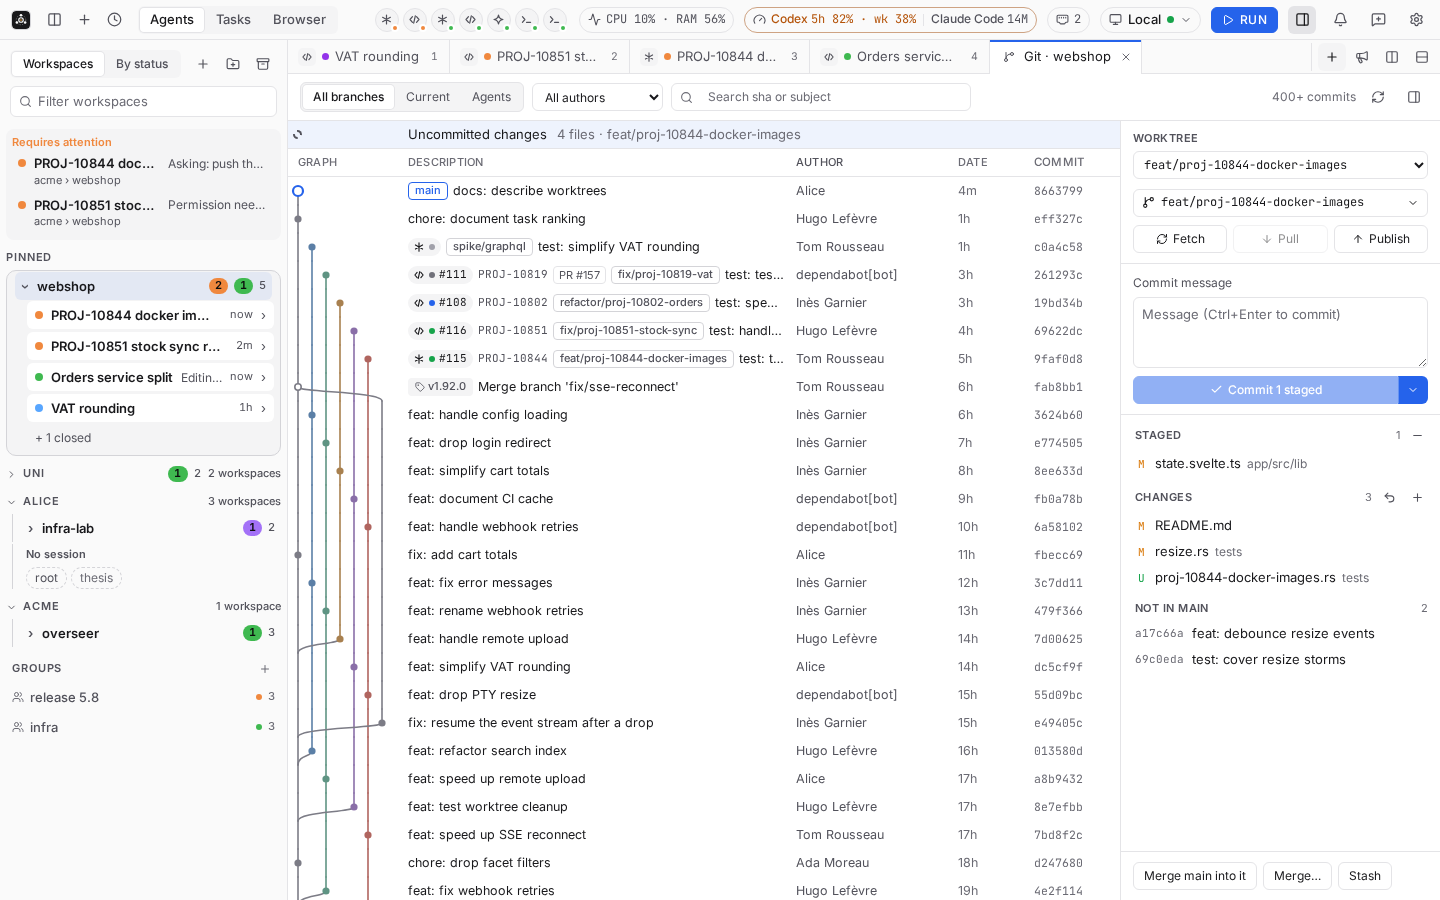
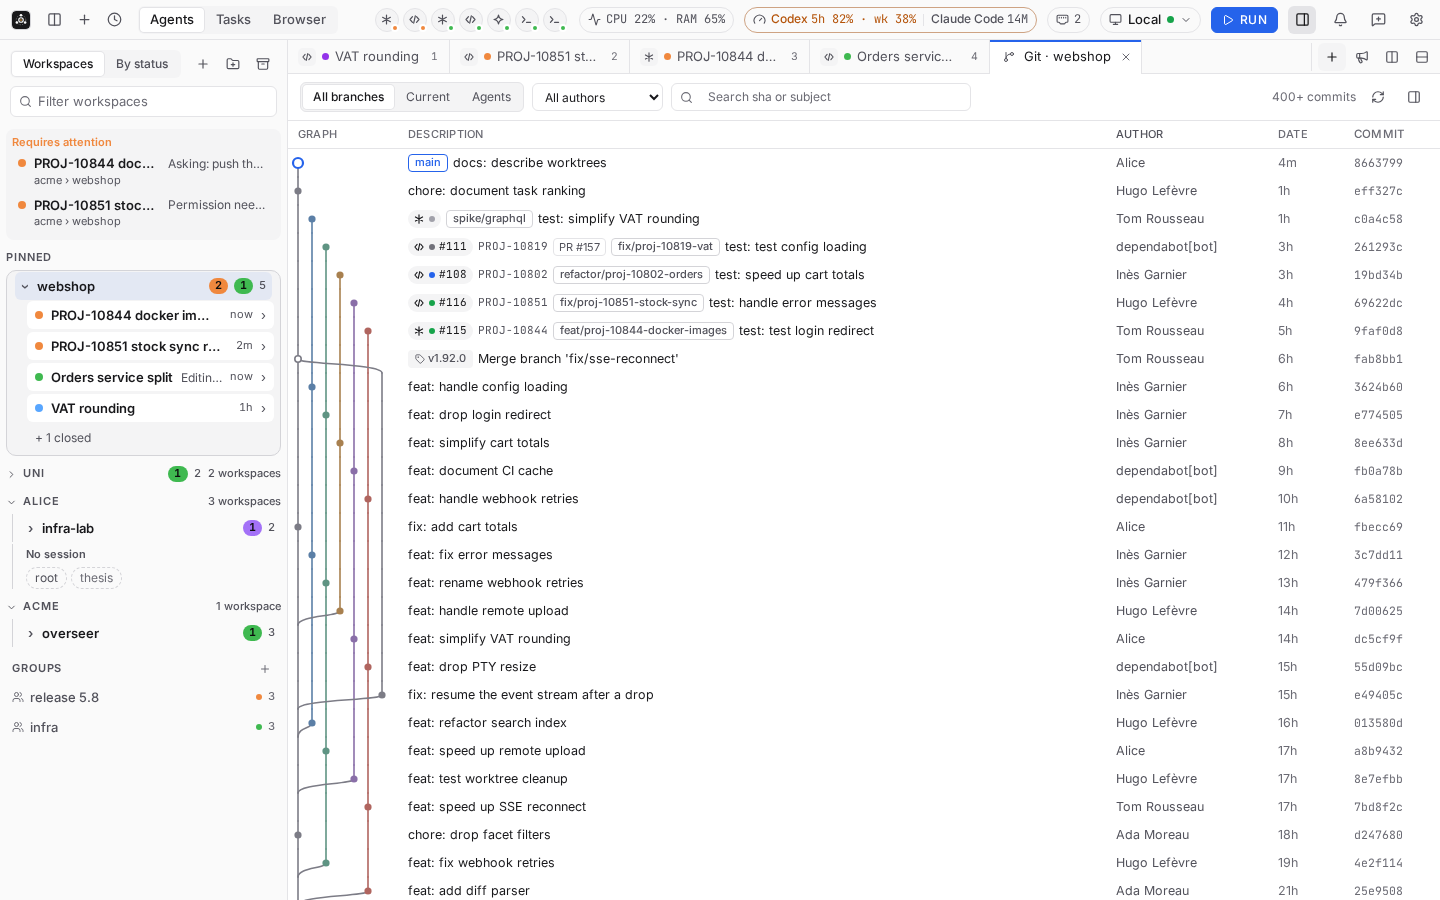
fix(git): one review tab in live mode, docs and screenshots for the live review

diff --git a/app/src/lib/i18n/en.ts b/app/src/lib/i18n/en.ts
@@ -1756,8 +1756,8 @@ export const en = {
   'tour.uninstall.phone': 'More, Settings, Connection, Remove undoes everything Overseer added to this server.',
   'tour.autoUpdate.title': 'One-click updates',
   'tour.autoUpdate.body': 'Every install now updates itself: when a new version is out, the Update pill in the title bar downloads and installs it, then restarts Overseer. Settings, Updates checks on demand.',
-  'tour.sourceControl.title': 'Source control',
-  'tour.sourceControl.body': 'The git button above each session opens its source control beside it: stage files, commit, pull, push, switch branch, merge and stash. Expand it into the Git tab to see the graph next to your changes and merge or revert a commit.',
+  'tour.sourceControl.title': 'Live review',
+  'tour.sourceControl.body': 'The git button above each session opens its live review: the agent on the left, its changes on the right, and one bar at the bottom to commit, push, pull, merge or stash the worktree you pick, submodules included. Press it again to go back.',
   'tour.sourceControl.phone': 'More, Git opens the Git tab: Changes to stage, commit, pull and push, Graph for the history.',
   'tour.settings.title': 'Settings, searchable',
   'tour.settings.body': 'Settings are grouped in a sidebar: General, Terminal, Agents, Notifications, Connection, Updates and Help. Type in the search box to find any setting by name.',

diff --git a/app/src/lib/git/live.svelte.test.ts b/app/src/lib/git/live.svelte.test.ts
@@ -46,6 +46,14 @@ describe('live review', () => {
     expect(allTabs(workspace.layout)).toEqual(['line:ln_03']);
   });
 
+  it('moves an already open review tab beside the agent instead of duplicating it, and leaves no tab behind', () => {
+    workspace.layout = { ...EMPTY_LAYOUT, panes: [{ tabs: ['line:ln_03', 'review:line:ln_03'], active: 'line:ln_03' }] };
+    toggleLiveReview();
+    expect(allTabs(workspace.layout).filter((k) => k === 'review:line:ln_03')).toHaveLength(1);
+    toggleLiveReview();
+    expect(allTabs(workspace.layout)).toEqual(['line:ln_03']);
+  });
+
   it('does nothing for a tab that is not a session', () => {
     expect(toggleLiveReview('graph:/p')).toBe(false);
     expect(app.liveReview).toBe(false);

diff --git a/app/src/lib/git/live.svelte.ts b/app/src/lib/git/live.svelte.ts
@@ -1,7 +1,7 @@
 import { app } from '../state.svelte';
 import { beside } from '../review/beside.svelte';
 import { parseReviewKey } from '../review/keys';
-import { closeSideReview, itemTarget, openReviewBeside } from '../review/open';
+import { closeSideReview, itemTarget, setReviewMode } from '../review/open';
 import type { ScmTarget } from './types';
 
 export const live = $state<{ worktree: string | null }>({ worktree: null });
@@ -35,7 +35,7 @@ export function toggleLiveReview(fromKey: string | null = app.selectedKey): bool
   const target = itemTarget(fromKey);
   if (!target) return false;
   live.worktree = null;
-  openReviewBeside(target);
+  setReviewMode(target, 'side');
   app.liveReview = true;
   return true;
 }

diff --git a/app/src/lib/git/LiveBar.svelte b/app/src/lib/git/LiveBar.svelte
@@ -216,7 +216,7 @@
     <button class="wt" title={s.worktree} aria-haspopup="menu" onclick={worktreeMenu} disabled={busy}>
       <GitBranch size={13} />
       <span class="nm">{name}</span>
-      <span class="br mono">{s.branch ?? gt('sc.detached')}</span>
+      {#if !s.branch || s.branch.replaceAll('/', '-') !== name}<span class="br mono">{s.branch ?? gt('sc.detached')}</span>{/if}
       <ChevronDown size={12} />
     </button>
     <button class="files-btn" class:on={filesOpen} aria-expanded={filesOpen} onclick={() => (filesOpen = !filesOpen)} disabled={!total}>

diff --git a/app/src/lib/git/SourceControl.test.ts b/app/src/lib/git/SourceControl.test.ts
@@ -54,6 +54,10 @@ describe('git bar', () => {
     expect(liveBar).toMatch(/<span class="nm">\{name\}<\/span>/);
   });
 
+  it('shows the branch only when the worktree folder does not already say it', () => {
+    expect(liveBar).toMatch(/\{#if !s\.branch \|\| s\.branch\.replaceAll\('\/', '-'\) !== name\}<span class="br mono">/);
+  });
+
   it('forgets the picked worktree when the session changes', () => {
     expect(liveBar).toMatch(/if \(k === lastKey\) return;\s*lastKey = k;\s*untrack\(\(\) => \{\s*live\.worktree = null;/);
   });

diff --git a/src/gitops.rs b/src/gitops.rs
@@ -501,12 +501,11 @@ fn unpushed_submodules(e: (u16, String)) -> (u16, String) {
     if !e.1.contains("not be found on any remote") {
         return e;
     }
-    let paths: Vec<&str> = e
-        .1
-        .lines()
-        .map(str::trim)
-        .filter(|l| !l.is_empty() && !l.contains(' ') && !l.ends_with(':'))
-        .collect();
+    let paths: Vec<&str> =
+        e.1.lines()
+            .map(str::trim)
+            .filter(|l| !l.is_empty() && !l.contains(' ') && !l.ends_with(':'))
+            .collect();
     conflict(format!(
         "{} has commits that are not pushed: push the submodule first",
         if paths.is_empty() {
@@ -529,7 +528,14 @@ fn push_now(wt: &str) -> Result<(), (u16, String)> {
     }
     run(
         wt,
-        &["push", "-q", "--recurse-submodules=check", "-u", "origin", &b],
+        &[
+            "push",
+            "-q",
+            "--recurse-submodules=check",
+            "-u",
+            "origin",
+            &b,
+        ],
     )
     .map_err(unpushed_submodules)?;
     Ok(())

diff --git a/docs/user-guide.md b/docs/user-guide.md
@@ -898,7 +898,7 @@ On first launch, once the app is connected (immediately in local mode, after the
 connection on a phone), a welcome card offers **Take the tour** or **Skip**. The tour dims the
 window and highlights the real controls one at a time: host chip, workspaces sidebar, tabs and the
 new-session menu, the Terminal/Chat toggle, the side panel, Tasks, Review, the usage, system and ports
-chips, notifications and hooks, the command palette and Feedback, in 0.25 the Cmd/Ctrl+P palette shortcut, and in 0.27 the demo mode (on the **Demo mode** pill while in the demo, else on the host chip), and in 0.28 the GPU rendering option for terminals, and in 0.29 the clean up of unused worktrees and the import from Switchboard (on its button in Settings, Help, or on the Settings button), and in 0.30 click to move the cursor in a terminal (on the tabs), and in 0.31 the Light and Dark palettes (on Settings, or More on a phone), and in 0.33 the one-click install of skills and plugins (on Settings), and in 0.34 the auto-approval defaults (on Settings, Agents), the Review, Merged and Closed columns (on the Merged column when the board is open, else on the Tasks tab) and the clean removal of everything Overseer added (on Settings, Connection, **Remove**), and in 0.35 one-click in-app updates for every install (on Settings, Updates, else on the Settings button), and in 0.36 source control behind the git button (on the git button of a session's tab bar, else on the command palette). Steps whose control is not on
+chips, notifications and hooks, the command palette and Feedback, in 0.25 the Cmd/Ctrl+P palette shortcut, and in 0.27 the demo mode (on the **Demo mode** pill while in the demo, else on the host chip), and in 0.28 the GPU rendering option for terminals, and in 0.29 the clean up of unused worktrees and the import from Switchboard (on its button in Settings, Help, or on the Settings button), and in 0.30 click to move the cursor in a terminal (on the tabs), and in 0.31 the Light and Dark palettes (on Settings, or More on a phone), and in 0.33 the one-click install of skills and plugins (on Settings), and in 0.34 the auto-approval defaults (on Settings, Agents), the Review, Merged and Closed columns (on the Merged column when the board is open, else on the Tasks tab) and the clean removal of everything Overseer added (on Settings, Connection, **Remove**), and in 0.35 one-click in-app updates for every install (on Settings, Updates, else on the Settings button), and in 0.36 the live review behind the git button (on the git button of a session's tab bar, else on the command palette). Steps whose control is not on
 screen (no session selected, a feature the server lacks, phone layout) are skipped. On a phone the
 card is a sheet at the bottom (or top, when the control sits low) and points at the bottom
 navigation, the session strip and the menu.
@@ -1890,26 +1890,32 @@ curl --unix-socket "$S" -X POST -d '{"dryRun":false}' "http://unix/v1/worktrees/
 `POST /v1/worktrees/<id>/cherry-pick {"sha"}` picks a commit into it; both refuse uncommitted
 changes and abort on conflicts (the error names the files).
 
-### 14.10 Source control and the Git tab
+### 14.10 Live review and the Git tab
 
-The git button in a session's tab bar (or the palette's "Show or hide source control") puts
-**Source control** in the side panel for that session's worktree. It shows the branch (click to
-switch or create one), **Fetch**, **Pull** (with the commits behind), **Push** (with the commits
-ahead, or **Publish** for a branch with no upstream), a commit message with **Commit** (the staged
-files, or every change when nothing is staged; Ctrl/Cmd+Enter) and its options (**Commit and
-push**, **Commit all changes**, **Amend the last commit**), the merge conflicts, staged files and
-changes with stage, unstage and discard (discard asks first and cannot be undone), the outgoing and
-incoming commits, and **Merge main into it**, **Merge…** (another branch), **Stash** and **Pop
-stash**. A file opens its diff in the review beside the session. A pull or merge that conflicts is
-aborted and names the files; a merge in progress started elsewhere is shown. The panel follows the
-selected session and refreshes on file and ref changes, never by polling.
+The git button in a session's tab bar (or the palette's "Open or close the live review") turns the
+window into a live review of that session: the agent stays where it is, its review opens beside it,
+the sidebar becomes a rail of the workspace's sessions (click one to switch; the review follows),
+the side panel steps aside, and a bar at the bottom runs git. Press the button again to go back.
 
-The expand button opens the **Git tab** of the project (command palette, "Open Git (graph and
-source control)"; on a phone **More**, **Git**): the graph below, with an **Uncommitted changes**
-row on top when the chosen worktree has changes, and the same source control in a column you can
-hide, for the worktree picked at the top (it starts on the session you expanded from). A commit's
-detail adds **Merge into <branch>** and **Revert in <branch>** for that worktree. On a phone the tab
-has **Changes** and **Graph** sub-tabs.
+The bar acts on one repository only: the worktree named on its left. Its menu lists every worktree
+of the session with its changes, and the submodules under their parent, plus the branches to switch
+to and **New branch…**. Next to it, **N changed** opens the files: stage, unstage, discard (asks
+first and cannot be undone); a submodule shows as one row, **Stage pointer** when its commit moved,
+**Open <name>** when it only has changes inside. Write a message and press Enter: **Commit** takes the
+staged files, or every change when nothing is staged. When there is nothing to commit, the button
+becomes **Push n**, **Publish branch** or **Pull n**, whichever is next. The ⋯ menu holds fetch,
+pull, push, commit and push, amend, stage all, unstage all, **Discard all changes…** (confirmed),
+**Merge <base> into it**, **Merge…**, stash and pop, and **Open the Git graph**. Comments and **Send to
+agent** stay at the bottom of the review, for the whole session. A pull or merge that conflicts is
+aborted and names the files; a merge started elsewhere shows as in progress; a push is refused while
+a submodule has commits that are not pushed. While the agent is running, the bar warns that files can
+still change. Everything refreshes on file and ref changes, never by polling.
+
+The **Git tab** of the project (command palette, "Open Git (graph and source control)", ⋯ › **Open the
+Git graph**; on a phone **More**, **Git**) shows the graph with an **Uncommitted changes** row on top,
+and source control in a column the toolbar button shows (hidden by default), for the worktree picked
+at the top. A commit's detail adds **Merge into <branch>** and **Revert in <branch>**. On a phone the
+tab has **Changes** and **Graph** sub-tabs.
 
 ```
 curl --unix-socket "$S" "http://unix/v1/git/status?worktree=$W"

diff --git a/docs/qa-path.md b/docs/qa-path.md
@@ -171,8 +171,8 @@ Each step is **Do → Expect**. Check every screenshot for overlaps, clipped tex
 ### K. Other views
 
 - **K1** Ctrl+P → **Views** section → Review changes, Open browser, Open Git (graph and source control), Open the worktrees, System, Usage, PR reviews → each opens with content or a clear empty state, and no console errors. Tab bar **+** lists only agents and the shell.
-- **K1e** Source control (real daemon, a task worktree with a modified and an untracked file and a bare `origin`): the git button in the session's tab bar opens **Source control** in the side panel (the button shows as on; click again → the session panel is back; the palette's **Show or hide source control** does the same). Stage a file (+) → it moves to Staged; type a message, **Commit 1 staged** → `git log` shows it; **Publish** → the branch exists on `origin` with an upstream; Discard (↺) on a file → the confirm bar shows, **Cancel** keeps the file, **Discard** removes the change. **Stash** → files gone, **Pop stash (1)** → back. Push a commit to `origin` from another clone, **Fetch** → **Pull 1**, **Pull** → it is in. Commit options → **Commit and push** → `origin` has it. **Merge main into it** with a conflicting `main` → "merge conflicts in a.txt; the merge was aborted" and a clean tree. Branch button → **New branch…** → name → **Create branch** → the branch shows; switch back from the menu. Write a file in the worktree from a shell → it appears within about a second without a click. `sandbox.sh crash`, wait for the reconnecting chip, `start` → once connected the panel reloads and a new file appears again within a second.
-- **K1f** Git tab: in the panel click the expand button → the project's **Git** tab opens on the same worktree, with **Uncommitted changes** above the graph and the source control column on the right (toolbar button hides and shows it). Click a commit → its detail opens, the column hides so the graph keeps its Description column, and the detail has **Merge into <branch>** and **Revert in <branch>**: **Revert** → a `Revert "…"` commit lands in the worktree. Pick the main checkout in **Worktree** → the column shows `main`. Light and dark themes. On a phone (`android`, `iphone`): **More**, **Git** → the Git tab opens with **Changes** (scrolls to every control above the tab bar) and **Graph** (descriptions readable, no horizontal overflow).
+- **K1e** Live review (real daemon, a task worktree with a modified and an untracked file, a bare `origin`, a second worktree in the session and a submodule): the git button in the session's tab bar → the review opens beside the agent, the sidebar becomes a rail of sessions, the side panel hides and the git bar shows at the bottom (the button shows as on; the palette's **Open or close the live review** does the same). Click another session in the rail → the agent pane and the review follow, the bar resets to its worktree. **N changed** → stage one file (+) → `git status` shows it staged; type a message, Enter → `git log` shows it; the button becomes **Push n** (or **Publish branch** on a new branch) → click → `origin` has it. ⋯ → **Discard all changes…** → the confirm shows, **Cancel** keeps everything, **Discard** removes it. ⋯ → **Stash**, **Pop stash (1)** → back. Push a commit to `origin` from another clone, ⋯ → **Fetch** → the button becomes **Pull 1** → click → in. ⋯ → **Merge main into it** with a conflicting `main` → "merge conflicts in a.txt; the merge was aborted" and a clean tree. Worktree menu → the second worktree and the submodule (under its parent) → the bar names it and acts on it; branches and **New branch…** work. A submodule with changes inside shows **Open lib**; with a new commit, **Stage pointer**; committing the pointer then **Push** → "lib has commits that are not pushed: push the submodule first". Write a file in the worktree → it appears within a second. Press the git button again → sidebar, side panel and tabs are back as before, with no review tab left behind (also when a review tab was already open). `sandbox.sh crash`, `start` → the bar reloads once connected. Repeat in the desktop app (Enter commits, menus open above the bar).
+- **K1f** Git tab: ⋯ › **Open the Git graph** → the project's **Git** tab opens on the same worktree, with **Uncommitted changes** above the graph; the toolbar button shows and hides the source control column (hidden at first). Click a commit → its detail has **Merge into <branch>** and **Revert in <branch>**; **Revert** → a `Revert "…"` commit lands in the worktree. Light and dark themes. On a phone (`android`, `iphone`): **More**, **Git** → the Git tab opens with **Changes** (scrolls to every control above the tab bar) and **Graph** (descriptions readable, no horizontal overflow).
 - **K1a** Usage limits refresh on their own: with Settings → Usage → "Plan limits from the status line" on, write `$QA_DIR/state/claude-statusline.json` with a `5h` window at 88 % resetting in 30 s, then leave the app focused with no agent activity → the usage chip shows "5h 88%", and within 35 s the window is gone from the chip without any click or reload. Unfocus the window → no usage request is made; focus it after 5 min → one refetch.
 - **K1b** Worktrees tab with a merged, agentless worktree and a busy one → **Clean up merged (n)** counts only the merged one; the dialog lists it ticked; untick → the confirm button disables; tick → **Clean up 1** removes it and its branch, the busy one stays.
 - **K2** The command palette lists and runs commands. The Keyboard shortcuts sheet (the `?` next to Keyboard in Settings, the palette's **Keyboard shortcuts** command, or Ctrl+/) matches what the shortcuts do. Ctrl+P (Cmd+P on macOS) opens the palette outside a terminal and Escape closes it; in a shell terminal Ctrl+P reaches the shell (history recall) and Ctrl+Shift+P opens the palette; Cmd/Ctrl+K still works. The sheet lists Ctrl+K, Ctrl+Shift+P and Ctrl+P (marked "outside a terminal") for the palette.

diff --git a/README.md b/README.md
@@ -104,15 +104,18 @@ commit from the Kanban card when the task is in Review.
 
 ### Source control, Git graph and worktrees
 
-The git button above each session opens its source control beside the terminal, like VS Code:
-stage or discard files, write a message and commit (or commit and push), fetch, pull, push or
-publish the branch, switch or create a branch, merge, and stash. Expand it into the Git tab to see
-the same changes next to a per-project git graph that stays fast on large histories, with agent
-branches, tasks and PRs on it; from a commit you can merge it into the worktree or revert it.
+The git button above each session opens its live review: the agent stays on the left, the
+review of everything it changed sits beside it, the sidebar shrinks to a rail of sessions, and one
+bar at the bottom runs git on the worktree you pick among the session's worktrees and submodules.
+Write a message and press Enter to commit; Push, Publish or Pull takes the button's place when it
+is the next step, and the ⋯ menu holds fetch, amend, stage or discard all, merge, stash and the Git
+graph. The Git graph tab keeps a per-project history that stays fast on large histories, with agent
+branches, tasks and PRs on it; from a commit you can merge it into a worktree or revert it.
 Worktrees live in one store outside your repositories, show whether they are in use, idle
 or stale, and are cleaned up safely: **Clean up merged** picks the merged ones with no agent left,
 and you untick the ones to keep.
 
+![Live review of a session](app/docs/screenshots/live-dark.png)
 ![Git graph](app/docs/screenshots/graph-light.png)
 ![Worktrees](app/docs/screenshots/worktrees-dark.png)
 
